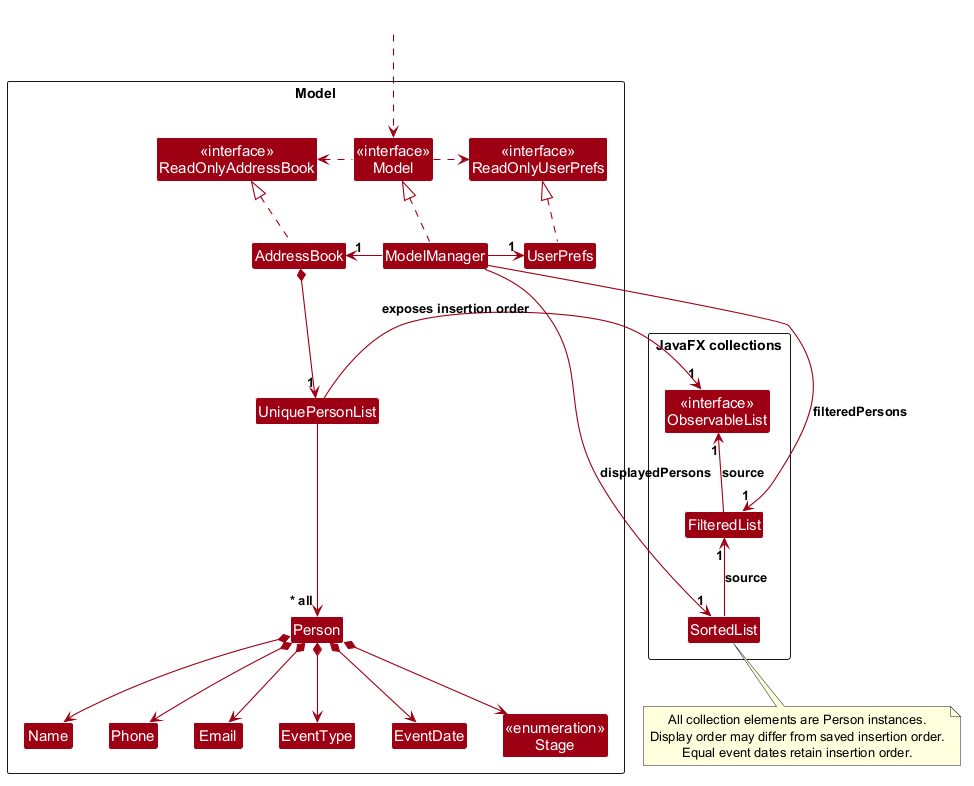
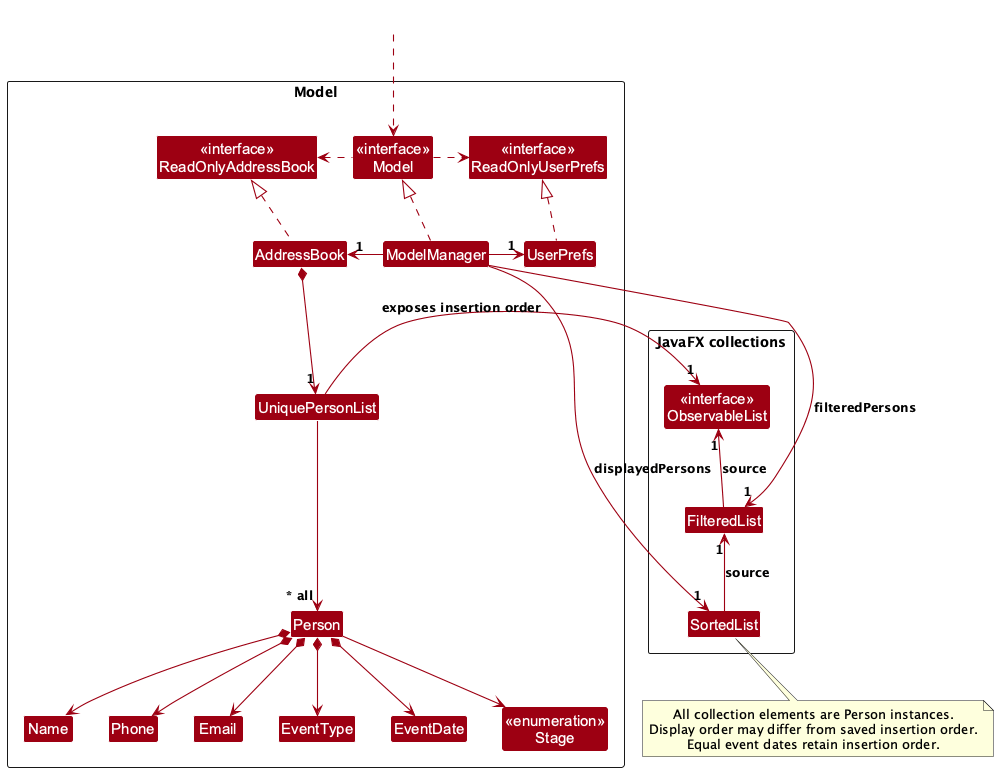
Polish guides and correct Logic/Model diagrams
Point the release links to the latest release, remove emoji shortcodes,
bold every area name in the UG overview table, show how DeleteCommand
resolves the displayed index before calling Model#deletePerson(Person),
and draw Person -> Stage as an association rather than composition.

Fixes #215

diff --git a/docs/UserGuide.md b/docs/UserGuide.md
@@ -21,7 +21,7 @@ appear in multiple engagement records.
 1. Ensure that Java **25** is installed on your computer. In a terminal, run `java -version` and check that it reports version 25.<br>
    **Mac users:** Ensure you have the precise JDK version prescribed [here](https://se-education.org/guides/tutorials/javaInstallationMac.html).
 
-1. Download `shutterlink.jar` from the [ShutterLink releases page](https://github.com/AY2627S1-CS2103T-T08-3/tp/releases). Use a release that includes the commands described in this guide; the project website may describe changes newer than an older JAR.
+1. Download `shutterlink.jar` from the [latest ShutterLink release](https://github.com/AY2627S1-CS2103T-T08-3/tp/releases/latest). Use a release that includes the commands described in this guide; the project website may describe changes newer than an older JAR.
 
 1. Copy the file to a folder you can write to. Use the same folder each time you launch ShutterLink, because data paths are relative to your terminal's current folder.
 
@@ -55,9 +55,9 @@ The screenshots below use fictional engagements in the current interface. Your r
 | --- | --- |
 | **Command** | Type one command, then press Enter. Accepted commands clear the input; rejected commands retain the text for correction. Press Ctrl+L (Command+L on macOS) from the main window to focus this input without clearing unfinished text. |
 | **Feedback** | Read the command result or error. Results are shown in green, possible-typo warnings after a successful add or edit in amber, and errors in red. The text always states the outcome, so the colours are only a visual aid. |
-| Event schedule | Compare the proportions of past, upcoming and later engagements in the current displayed list. The legend shows each count. |
-| List heading | Check which view is active and how many engagements it contains. |
-| Engagement cards | Read each displayed index, client name, phone, email, event type, event date, and stage. Each stage has its own badge colour, so you can scan the workflow at a glance; the stage name is always shown as text too. An empty view shows `No engagements to display.` Scroll to see additional cards. Double-click an engagement card, or select it with the keyboard and press Enter, to open its complete details. |
+| **Event schedule** | Compare the proportions of past, upcoming and later engagements in the current displayed list. The legend shows each count. |
+| **List heading** | Check which view is active and how many engagements it contains. |
+| **Engagement cards** | Read each displayed index, client name, phone, email, event type, event date, and stage. Each stage has its own badge colour, so you can scan the workflow at a glance; the stage name is always shown as text too. An empty view shows `No engagements to display.` Scroll to see additional cards. Double-click an engagement card, or select it with the keyboard and press Enter, to open its complete details. |
 | **Help** | Open the command reference using the button, `help`, or F1. |
 
 In the event schedule chart, **Upcoming** means an event dated today through the following six calendar dates,
@@ -126,7 +126,7 @@ Repeating the same add command gives a duplicate error. Find and edit the existi
 
 <div markdown="block" class="alert alert-info">
 
-**:information_source: Notes about the command format:**<br>
+**Notes about the command format:**<br>
 
 * Words in `UPPER_CASE` are the parameters to be supplied by the user.<br>
   For example, in `add n/NAME`, replace `NAME` with a value such as `John Doe`.

diff --git a/docs/DeveloperGuide.md b/docs/DeveloperGuide.md
@@ -24,7 +24,7 @@ Refer to the guide [_Setting up and getting started_](SettingUp.md).
 
 <div markdown="span" class="alert alert-primary">
 
-:bulb: **Tip:** The `.puml` files used to create diagrams are in `docs/diagrams`. Refer to the [_PlantUML Tutorial_ at se-edu/guides](https://se-education.org/guides/tutorials/plantUml.html) to learn how to create and edit diagrams.
+**Tip:** The `.puml` files used to create diagrams are in `docs/diagrams`. Refer to the [_PlantUML Tutorial_ at se-edu/guides](https://se-education.org/guides/tutorials/plantUml.html) to learn how to create and edit diagrams.
 </div>
 
 ### Architecture
@@ -142,8 +142,11 @@ diagram above.
 
 ![Interactions Inside the Logic Component for the `delete 1` Command](images/DeleteSequenceDiagram.png)
 
-<div markdown="span" class="alert alert-info">:information_source: **Note:** The lifeline for `DeleteCommandParser` should end at the destroy marker (X), but due to a limitation of PlantUML, it continues to the end of the diagram.
+<div markdown="span" class="alert alert-info">**Note:** The lifeline for `DeleteCommandParser` should end at the destroy marker (X), but due to a limitation of PlantUML, it continues to the end of the diagram.
 </div>
+
+`DeleteCommand` resolves the displayed index itself: it reads the displayed list from `Model#getFilteredPersonList()`,
+selects the `Person` at that index, and passes that `Person` to `Model#deletePerson`.
 
 How the `Logic` component works:
 
@@ -189,7 +192,8 @@ The `Model` component,
 * stores the address book data i.e., all `Person` objects (which are contained in a `UniquePersonList` object).
 * represents each `Person` as one photography engagement containing a client's `Name`, `Phone`, `Email`,
   `EventType`, `EventDate`, and `Stage`.
-* represents the engagement stage as the `Stage` enum. `advance` uses `Stage#getNextStage()`, which maps each stage to
+* represents the engagement stage as the `Stage` enum. Each `Person` refers to one of the shared `Stage` constants, so the
+  diagram shows an association rather than composition. `advance` uses `Stage#getNextStage()`, which maps each stage to
   the next one explicitly, so adding a stage requires updating that mapping (changing the enum order alone does not
   change the behaviour of `advance`).
 * treats two `Person` objects as the same engagement (`Person#isSameEngagement`) when their name, phone, email, event
@@ -792,7 +796,7 @@ Course process requirements, such as incremental delivery, are not product NFRs.
 
 Given below are instructions to test the app manually.
 
-<div markdown="span" class="alert alert-info">:information_source: **Note:** These instructions only provide a starting point for testers to work on;
+<div markdown="span" class="alert alert-info">**Note:** These instructions only provide a starting point for testers to work on;
 testers are expected to do more *exploratory* testing.
 
 </div>

diff --git a/docs/SettingUp.md b/docs/SettingUp.md
@@ -11,7 +11,7 @@ title: Setting up and getting started
 
 ## Setting up the project on your computer
 
-<div markdown="span" class="alert alert-warning">:exclamation: **Caution:**
+<div markdown="span" class="alert alert-warning">**Caution:**
 
 Follow the steps below precisely. The setup may fail if you skip or change a step.
 </div>
@@ -21,7 +21,7 @@ First, **fork** this repo, and **clone** the fork into your computer.
 If you plan to use IntelliJ IDEA (highly recommended):
 1. **Configure the JDK**: Follow the guide [_[se-edu/guides] IDEA: Configuring the JDK_](https://se-education.org/guides/tutorials/intellijJdk.html) to ensure IntelliJ is configured to use **JDK 25**.
 1. **Import the project as a Gradle project**: Follow the guide [_[se-edu/guides] IDEA: Importing a Gradle project_](https://se-education.org/guides/tutorials/intellijImportGradleProject.html) to import the project into IDEA.<br>
-  :exclamation: Note: Importing a Gradle project is slightly different from importing a normal Java project.
+  Note: Importing a Gradle project is slightly different from importing a normal Java project.
 1. **Verify the setup**:
    1. Run `seedu.address.Main` and try a few commands.
    1. [Run the tests](Testing.md) to ensure they all pass.
@@ -34,7 +34,7 @@ If you plan to use IntelliJ IDEA (highly recommended):
 
    If using IDEA, follow the guide [_[se-edu/guides] IDEA: Configuring the code style_](https://se-education.org/guides/tutorials/intellijCodeStyle.html) to set up IDEA's coding style to match ours.
 
-   <div markdown="span" class="alert alert-primary">:bulb: **Tip:**
+   <div markdown="span" class="alert alert-primary">**Tip:**
 
    Optionally, follow the guide [_[se-edu/guides] Using Checkstyle_](https://se-education.org/guides/tutorials/checkstyle.html) to learn how to use Checkstyle in IDEA, for example to report problems _as_ you write code.
    </div>

diff --git a/docs/Documentation.md b/docs/Documentation.md
@@ -10,7 +10,7 @@ title: Documentation guide
 * To learn how to set up and maintain the project website, follow the guide [_[se-edu/guides] **Using Jekyll for project documentation**_](https://se-education.org/guides/tutorials/jekyll.html).
 * Note these points when adapting the documentation to a different project/product:
   * The 'Site-wide settings' section of the page linked above has information on how to update site-wide elements such as the top navigation bar.
-  * :bulb: In addition to updating content files, update `docs/_config.yml` when the site title, description,
+  * In addition to updating content files, update `docs/_config.yml` when the site title, description,
     navigation, or repository link changes.
 * If you are using IntelliJ for editing documentation files, you can consider enabling 'soft wrapping' for `*.md` files, as explained in [_[se-edu/guides] **Intellij IDEA: Useful settings**_](https://se-education.org/guides/tutorials/intellijUsefulSettings.html#enabling-soft-wrapping)
 

diff --git a/docs/Testing.md b/docs/Testing.md
@@ -19,7 +19,7 @@ You can run tests in two ways.
 * **Method 2: Using Gradle**
   * Open a console and run the command `gradlew clean test` (Mac/Linux: `./gradlew clean test`)
 
-<div markdown="span" class="alert alert-secondary">:link: **Link**: Read [this Gradle Tutorial from the se-edu/guides](https://se-education.org/guides/tutorials/gradle.html) to learn more about using Gradle.
+<div markdown="span" class="alert alert-secondary">**Link**: Read [this Gradle Tutorial from the se-edu/guides](https://se-education.org/guides/tutorials/gradle.html) to learn more about using Gradle.
 </div>
 
 --------------------------------------------------------------------------------------------------------------------

diff --git a/README.md b/README.md
@@ -22,7 +22,7 @@ through post-event delivery.
 
 ## Getting started
 
-1. Install Java 25 and download the latest `.jar` file from the project releases page.
+1. Install Java 25 and download `shutterlink.jar` from the [latest release](https://github.com/AY2627S1-CS2103T-T08-3/tp/releases/latest).
 2. Run it with:
 
    ```bash
